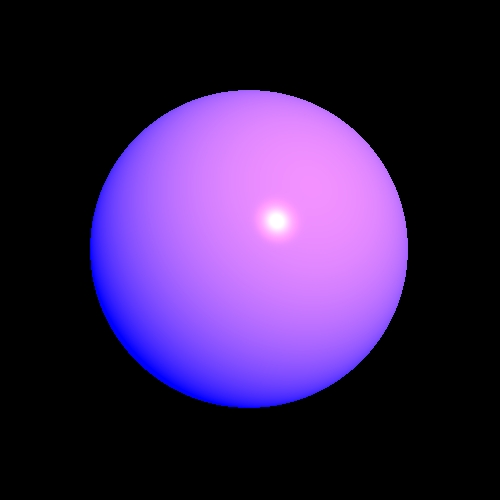
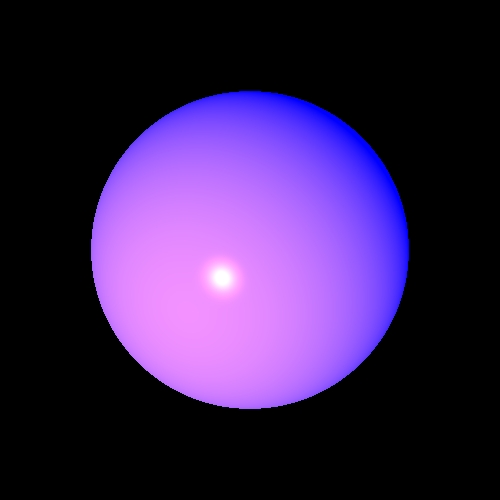
stage 6

Changed region(s): [[0.27, 0.18, 0.84, 0.72], [0.18, 0.27, 0.72, 0.84]]

diff --git a/Tar_1/Testing/elements/LightTests.java b/Tar_1/Testing/elements/LightTests.java
@@ -25,7 +25,7 @@ import scene.Scene;
     @Test
     public void sphereDirectional() {
         Scene scene = new Scene("Test scene");
-        scene.setCamera(new Camera(new Point3D(0, 0, -1000), new Vector(0, 0, 1), new Vector(0, -1, 0)));
+        scene.setCamera(new Camera(new Point3D(0, 0, -1000), new Vector(0, 0, 1), new Vector(0, 1, 0)));
         scene.setDistance(1000);
         scene.setBackground(Color.BLACK);
         scene.setAmbientLight(new AmbientLight(Color.BLACK, 0d));
@@ -51,7 +51,7 @@ import scene.Scene;
     @Test
     public void spherePoint() {
         Scene scene = new Scene("Test scene");
-        scene.setCamera(new Camera(new Point3D(0, 0, -1000), new Vector(0, 0, 1), new Vector(0, -1, 0)));
+        scene.setCamera(new Camera(new Point3D(0, 0, -1000), new Vector(0, 0, 1), new Vector(0, 1, 0)));
         scene.setDistance(1000);
         scene.setBackground(Color.BLACK);
         scene.setAmbientLight(new AmbientLight(Color.BLACK, 0));
@@ -74,7 +74,7 @@ import scene.Scene;
     @Test
     public void sphereSpot() {
         Scene scene = new Scene("Test scene");
-        scene.setCamera(new Camera(new Point3D(0, 0, -1000), new Vector(0, 0, 1), new Vector(0, -1, 0)));
+        scene.setCamera(new Camera(new Point3D(0, 0, -1000), new Vector(0, 0, 1), new Vector(0, 1, 0)));
         scene.setDistance(1000);
         scene.setBackground(Color.BLACK);
         scene.setAmbientLight(new AmbientLight(Color.BLACK, 0));
@@ -98,7 +98,7 @@ import scene.Scene;
     @Test
     public void trianglesDirectional() {
         Scene scene = new Scene("Test scene");
-        scene.setCamera(new Camera(new Point3D(0, 0, -1000), new Vector(0, 0, 1), new Vector(0, -1, 0)));
+        scene.setCamera(new Camera(new Point3D(0, 0, -1000), new Vector(0, 0, 1), new Vector(0, 1, 0)));
         scene.setDistance(1000);
         scene.setBackground(Color.BLACK);
         scene.setAmbientLight(new AmbientLight(new Color(java.awt.Color.WHITE), 0.15));

diff --git a/Tar_1/src/elements/Camera.java b/Tar_1/src/elements/Camera.java
@@ -17,7 +17,6 @@ public class Camera {
         return _p0;
     }
 
-
     public Vector get_vTo() {
         return _vTo;
     }
